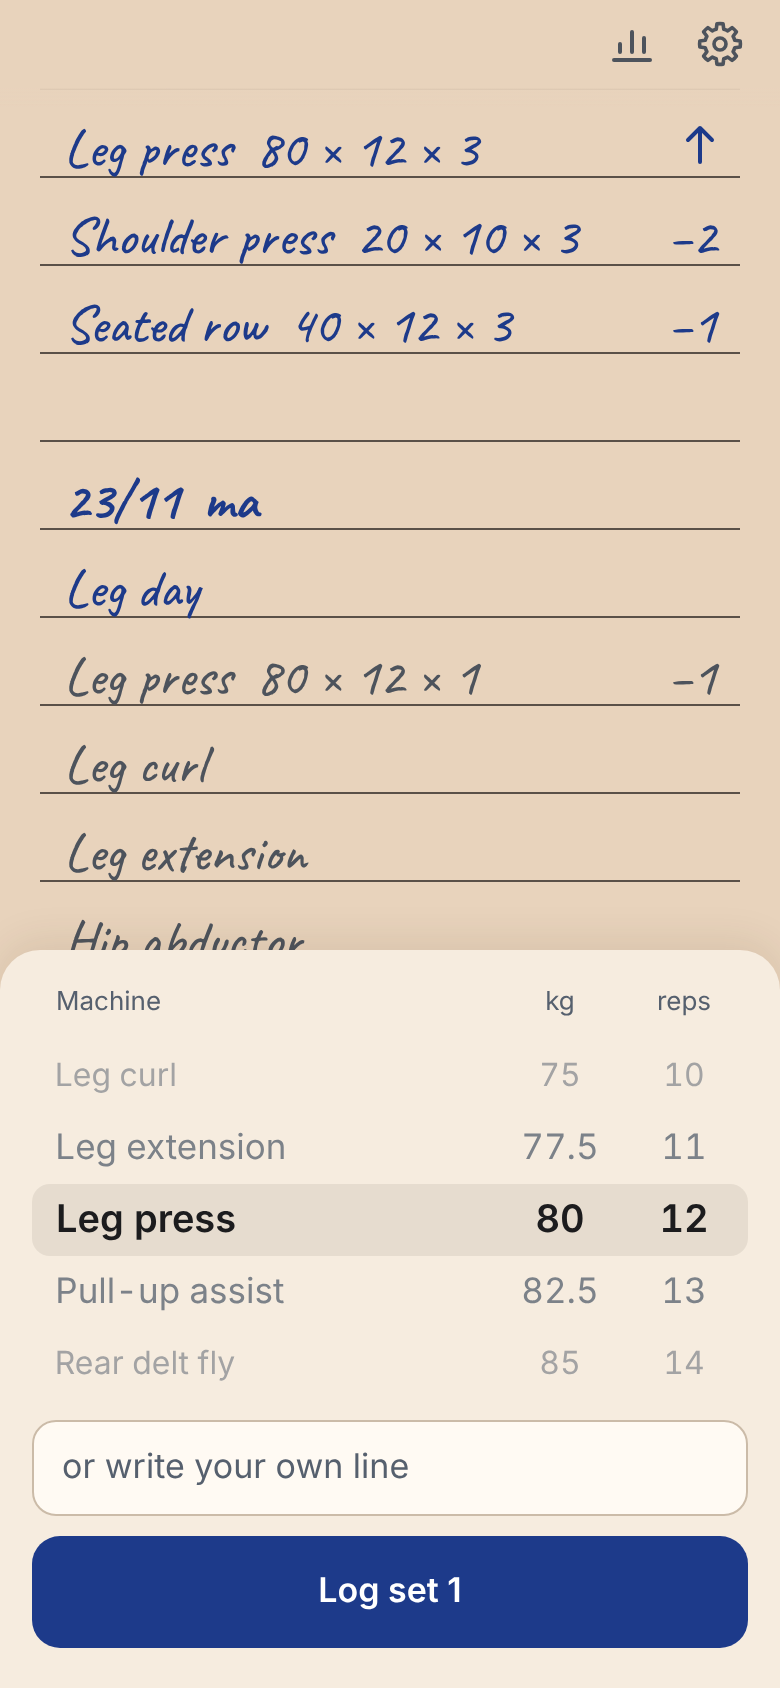
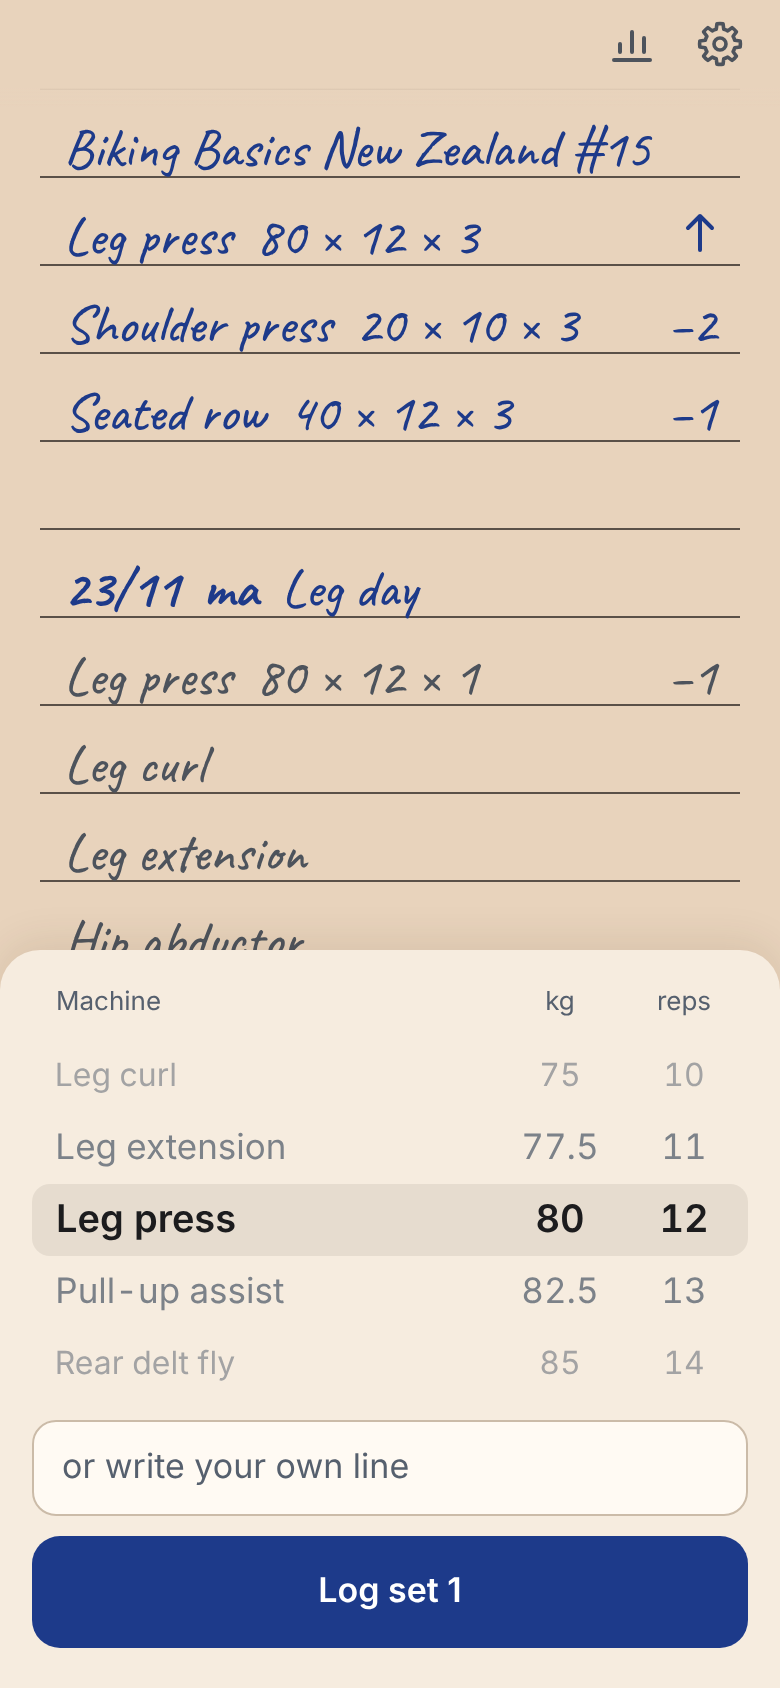
Write the plan's name after the date, on the same line
A day started from a plan now reads "23/11 ma Leg day" instead of the
name on a line of its own. The date line carries the name, keeps it when
the date is changed, and it goes in the backup file.

diff --git a/index.html b/index.html
@@ -172,6 +172,7 @@ button {
 .row-content.is-animating { transition: transform .22s var(--ease); }
 .row--text > .row-content, .row-content.is-text { display: block; overflow-wrap: anywhere; }
 .row--date > .row-content, .is-bold { font-weight: 700; }
+.plan-name { min-width: 0; font-weight: 500; overflow-wrap: anywhere; } /* the plan a day was started from, after its date */
 .is-pencil { color: var(--pencil); }
 
 .name { min-width: 0; overflow-wrap: anywhere; }
@@ -908,7 +909,7 @@ button {
  * What the lines say about your training. Pure functions over lines.
  *
  * A line is one of
- *   { id, type: 'date', date }                                   date = "YYYY-MM-DD"
+ *   { id, type: 'date', date, plan }                             date = "YYYY-MM-DD"; plan = the name of the plan the day started from, if any
  *   { id, type: 'text', text }
  *   { id, type: 'machine', machineId, name, weight, sets, reps }
  *   { id, type: 'plan', machineId, name }                        a machine a plan put on the page, not logged yet
@@ -1147,7 +1148,7 @@ button {
  *   { "app": "fitness-notebook", "version": 1, "exportedAt": "<ISO time>", "unit": "kg",
  *     "machines": [{ id, name }],
  *     "plans": [{ id, name, machineIds: [machine id] }],          (may be missing in older files)
- *     "lines": [{ id, type: "date", date } | { id, type: "text", text } |
+ *     "lines": [{ id, type: "date", date, plan (optional) } | { id, type: "text", text } |
  *               { id, type: "machine", machineId, name, weight, sets, reps } |
  *               { id, type: "plan", machineId, name }] }
  * Rules for reading a file
@@ -1194,7 +1195,10 @@ button {
     cleanLine(line) {
       if (!line) return null;
       const id = typeof line.id === 'string' && line.id ? line.id : newId('l');
-      if (line.type === 'date' && /^\d{4}-\d{2}-\d{2}$/.test(line.date)) return { id, type: 'date', date: line.date };
+      if (line.type === 'date' && /^\d{4}-\d{2}-\d{2}$/.test(line.date)) {
+        const plan = typeof line.plan === 'string' ? cleanName(line.plan) : '';
+        return plan ? { id, type: 'date', date: line.date, plan } : { id, type: 'date', date: line.date };
+      }
       if (line.type === 'text' && typeof line.text === 'string' && line.text.trim()) return { id, type: 'text', text: line.text.trim() };
       if (
         line.type === 'machine' &&
@@ -1520,18 +1524,17 @@ button {
     }
 
     /**
-     * Starts a new day: writes the date and, with a plan, the plan's name and one pencil (plan) line per machine.
+     * Starts a new day: writes the date and, with a plan, the plan's name after it and one pencil (plan) line per machine.
      * Pencil lines left over from an earlier day are thrown away: what was never logged is not kept.
      * Returns { dateLine, planLines }.
      */
     startDay(date, planId = null) {
       const plan = planId ? this.plan(planId) : null;
       this.data.lines = this.lines.filter((l) => l.type !== 'plan');
-      const dateLine = { id: newId('l'), type: 'date', date };
+      const dateLine = plan ? { id: newId('l'), type: 'date', date, plan: plan.name } : { id: newId('l'), type: 'date', date };
       this.lines.push(dateLine);
       const planLines = [];
       if (plan) {
-        this.lines.push({ id: newId('l'), type: 'text', text: plan.name });
         for (const machine of this.planMachines(plan.id)) {
           planLines.push({ id: newId('l'), type: 'plan', machineId: machine.id, name: machine.name });
         }
@@ -1807,7 +1810,8 @@ button {
     content(line, mark) {
       if (line.type === 'date') {
         const { date, day } = Calendar.written(line.date);
-        return `<span>${date}</span><span>${day}</span>`;
+        const plan = line.plan ? `<span class="plan-name">${escapeHtml(line.plan)}</span>` : ''; // the plan the day started from
+        return `<span>${date}</span><span>${day}</span>${plan}`;
       }
       if (line.type === 'text') return escapeHtml(line.text);
       if (line.type === 'plan') return `<span class="name">${escapeHtml(line.name)}</span>`;
@@ -2964,22 +2968,23 @@ button {
       return wheel ? this.plans[wheel.index - 1] || null : null;
     }
 
-    /** The date in pencil and, under it, what the picked plan would write: its name and its machines. */
+    /** The date in pencil, with the picked plan's name after it and its machines under it. */
     preview() {
       if (!this.wheels) return;
       const plan = this.pickedPlan();
       const planRows = plan
-        ? `<div class="row-content is-pencil is-text">${escapeHtml(plan.name)}</div>` +
-          this.notebook.planMachines(plan.id).map((m) => `<div class="row-content is-pencil">${escapeHtml(m.name)}</div>`).join('')
+        ? this.notebook.planMachines(plan.id).map((m) => `<div class="row-content is-pencil">${escapeHtml(m.name)}</div>`).join('')
         : '';
+      const written = this.editing ? this.editing.plan : plan && plan.name; // a changed date keeps the plan it was started from
       this.sheet.setActionLabel(this.editing ? 'Save' : plan ? `Start ${plan.name}` : 'Log');
-      this.page.preview(this.editing, 'date', LineMarkup.content({ type: 'date', date: this.picked() }), planRows);
+      this.page.preview(this.editing, 'date', LineMarkup.content({ type: 'date', date: this.picked(), plan: written }), planRows);
     }
 
     commit() {
       const date = this.picked();
       if (this.editing) {
-        this.notebook.replaceLine(this.editing.id, { type: 'date', date });
+        const { plan } = this.editing;
+        this.notebook.replaceLine(this.editing.id, plan ? { type: 'date', date, plan } : { type: 'date', date });
         this.page.done();
         return;
       }

diff --git a/tests/notebook.test.js b/tests/notebook.test.js
@@ -313,17 +313,19 @@ test('startDay: without a plan it writes only the date', () => {
   assert.deepEqual(planLines, []);
   assert.equal(notebook.lines.at(-1), dateLine);
   assert.deepEqual({ type: dateLine.type, date: dateLine.date }, { type: 'date', date: '2026-11-23' });
+  assert.ok(!('plan' in dateLine));
   assert.equal(notebook.lines.length, 3);
   assert.equal(saved.count, 1);
 });
 
-test('startDay: with a plan it writes the date, the name, and a pencil line per machine: names only', () => {
+test('startDay: with a plan it writes the date with the name after it, and a pencil line per machine: names only', () => {
   const { notebook, plan, saved } = makePlanned();
-  const { planLines } = notebook.startDay('2026-11-23', plan.id);
+  const { dateLine, planLines } = notebook.startDay('2026-11-23', plan.id);
   const day = notebook.lines.slice(2);
-  assert.deepEqual(day.map((l) => l.type), ['date', 'text', 'plan', 'plan']);
-  assert.equal(day[1].text, 'Leg day');
-  assert.deepEqual(planLines, day.slice(2));
+  assert.deepEqual(day.map((l) => l.type), ['date', 'plan', 'plan']);
+  assert.equal(day[0], dateLine);
+  assert.equal(dateLine.plan, 'Leg day');
+  assert.deepEqual(planLines, day.slice(1));
   assert.deepEqual(planLines.map(({ machineId, name }) => ({ machineId, name })), [
     { machineId: 'm-leg', name: 'Leg press' }, { machineId: 'm-chest', name: 'Chest press' },
   ]);
@@ -344,7 +346,7 @@ test('startDay: pencil lines never logged on an earlier day are thrown away', ()
   const first = notebook.startDay('2026-11-22', plan.id);
   notebook.replaceLine(first.planLines[0].id, { type: 'machine', machineId: 'm-leg', name: 'Leg press', weight: 80, sets: 1, reps: 12 });
   notebook.startDay('2026-11-23', plan.id);
-  assert.deepEqual(notebook.lines.map((l) => l.type), ['date', 'machine', 'date', 'text', 'machine', 'date', 'text', 'plan', 'plan']);
+  assert.deepEqual(notebook.lines.map((l) => l.type), ['date', 'machine', 'date', 'machine', 'date', 'plan', 'plan']);
 });
 
 test('addLineAfter: right under a line; at the bottom when that line is gone', () => {

diff --git a/tests/backup.test.js b/tests/backup.test.js
@@ -122,6 +122,12 @@ test('cleanPlan: needs an id and a name; machine ids are text, each once', () =>
   assert.deepEqual(Backup.cleanPlans('nope'), []);
 });
 
+test('cleanLine: a date keeps the name of the plan it started from, when it has one', () => {
+  assert.deepEqual(Backup.cleanLine({ id: 'x', type: 'date', date: '2026-11-23', plan: ' Leg  day ' }), { id: 'x', type: 'date', date: '2026-11-23', plan: 'Leg day' });
+  assert.deepEqual(Backup.cleanLine({ id: 'x', type: 'date', date: '2026-11-23', plan: 7 }), { id: 'x', type: 'date', date: '2026-11-23' });
+  assert.deepEqual(Backup.cleanLine({ id: 'x', type: 'date', date: '2026-11-23', plan: '  ' }), { id: 'x', type: 'date', date: '2026-11-23' });
+});
+
 test('cleanLine: a plan line needs a machine and a name', () => {
   assert.equal(Backup.cleanLine({ id: 'x', type: 'plan', machineId: 'm1' }), null);
   assert.equal(Backup.cleanLine({ id: 'x', type: 'plan', name: 'Leg press' }), null);

diff --git a/tests/lineMarkup.test.js b/tests/lineMarkup.test.js
@@ -59,3 +59,9 @@ test('a plan line: only the name, in pencil, and it can still be tapped and remo
   assert.match(html, /class="row-delete"/);
   assert.doesNotMatch(LineMarkup.row(machine, null), /is-pencil/);
 });
+
+test('content: a date started from a plan has the plan name after it, escaped', () => {
+  const html = LineMarkup.content({ type: 'date', date: `${thisYear}-11-18`, plan: 'Legs & <more>' });
+  assert.match(html, /<span>18\/11<\/span><span>\w+<\/span><span class="plan-name">Legs &amp; &lt;more&gt;<\/span>$/);
+  assert.doesNotMatch(LineMarkup.content({ type: 'date', date: `${thisYear}-11-18` }), /plan-name/);
+});

diff --git a/design/README.md b/design/README.md
@@ -29,7 +29,7 @@ They are pictures of the real `index.html`, so they show what is built. Screens 
 | Plans | [21-plan-add-machine.png](21-plan-add-machine.png) | Pick a machine, or write a new one. The panel comes back for the next machine |
 | Plans | [22-plan.png](22-plan.png) | One plan: machine names in order. Drag the handle to move one, drag left to take it out. Tap the name at the top to change it |
 | Plans | [23-settings-plans.png](23-settings-plans.png) | Settings with two plans. Tap one to open it, drag left to remove it, like a line in the notebook |
-| A day from a plan | [24-new-date-plan.png](24-new-date-plan.png) | New date: the plan wheel on the right starts on "No plan". Pick a plan and its lines show in pencil |
+| A day from a plan | [24-new-date-plan.png](24-new-date-plan.png) | New date: the plan wheel on the right starts on "No plan". Pick a plan: its name shows after the date, its machines under it, in pencil |
 | A day from a plan | [25-plan-day-ready.png](25-plan-day-ready.png) | "Start Leg day": the panel opens on the first machine, with last time's kg and reps |
 | A day from a plan | [26-plan-log-next-set.png](26-plan-log-next-set.png) | After each set the panel comes back: "Log set 4", or on to the next machine |
 | A day from a plan | [27-plan-other-reps.png](27-plan-other-reps.png) | Other kg or reps start a new line right under it |

diff --git a/README.md b/README.md
@@ -50,7 +50,7 @@ The rule of thumb: anything that decides something (what mark a line gets, what 
 A plan is a named list of machines in the order you do them, such as "Leg day". You make plans in Settings.
 
 - A plan holds machine names only. It never holds kg or reps: those come from the last time you did the machine.
-- A new date can start from a plan. The plan's machines are then written on the page in pencil, and the panel opens on the first one.
+- A new date can start from a plan. The plan's name is written after the date, its machines under it in pencil, and the panel opens on the first one.
 - Logging the first set turns a pencil line into pen. After each set the panel comes back for the next set, with a button to the next machine.
 - A pencil line never counts in the statistics. Pencil lines you did not log are thrown away when you start the next date.
 
